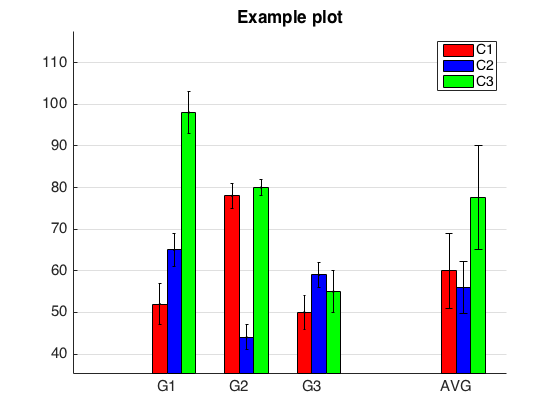
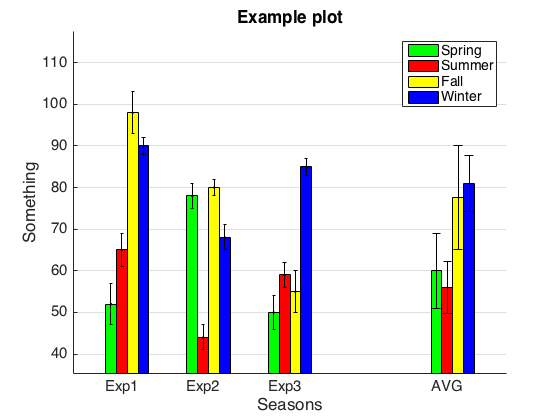
Add files via upload

diff --git a/plot_BwEB.m b/plot_BwEB.m
@@ -1,0 +1,146 @@
+%function plot_BwEB(data, err, colors,varargin)
+% 
+% This function plots a grouped bar chart together with error bars for a
+% given dataset. This function has the option to add an extra group to
+% represent the average of the categories across the given dataset. 
+% The error bars in the average grouped bars (with x-axis tick label as 
+% AVG') indicate the standard error of the mean. 
+% 
+% INPUT: 
+%    data       --> number of groups x number of categories 
+%    err        --> error for the given data (should be the same size as
+%                   data, i.e. number of groups x number of categories)
+%    colors     --> a cell list of colors, should have the same length as
+%                   the number of categories 
+%
+%
+% INPUT - optional:
+%    avg        --> 0/1 whether or not to plot the average (default: 0)
+%    legends    --> a cell array containing the legend for each category 
+%                   (default: Ci, i is in {1,..., number of categories}) 
+%    title      --> a sequence of characters indicating the title 
+%    xlabel     --> a sequence of characters indicating the label of the x-axis
+%    ylabel     --> a sequence of characters indicating the label of the y-axis
+%    XTickLabel --> a cell array containing the x-axis tick label for each 
+%                   group (default: Gi, i is in {1,..., number of groups})
+%    fontsize   --> font size (default: 10)
+%    ylim       --> limits of the y axis (default: [min(data(:))*0.8, 
+%                   max(data(:))*1.2] )
+%    GridOn     --> whether or not to plot the yaxis grid (on: 1 -- 
+%                   off: 0 -- default: 0)
+%
+%  ------------------------------------------------
+%  Example: 
+%  data = [52, 65, 98; 78, 44, 80; 50, 59,55];
+%  err = [5, 4, 5; 3, 3, 2; 4, 3, 5]; 
+%  colors = {'r','b','g'}; 
+%  plot_BwEB(data, err, colors, 'title','Example plot','avg',1,'fontsize',15,'GridOn',1)
+%
+%
+% MIT License
+% Copyright (c) 2020 Mahta Mousavi 
+%%%%%%%%%%%%%%%%%%%%%%%%%%%%%%%%%%%%%%%%%%%%%%%%%%%%%%%%%%%%%%%%%%%%%%%%%%
+function plot_BwEB(data, err, colors,varargin)
+
+p = inputParser; 
+
+addRequired(p,'data',@ismatrix);
+addRequired(p,'err',@ismatrix);
+addRequired(p,'colors',@(x)(iscell(x) && length(x)==size(data,2)));
+
+legends_temp = cell(1,size(data,2)); 
+for i = 1:length(legends_temp)
+    legends_temp{i} = ['C',num2str(i)];
+end
+addParameter(p, 'legends', legends_temp, @(x) (length(x) == size(data,2)));
+addParameter(p, 'title', [], @ischar);
+addParameter(p, 'xlabel', [], @ischar);
+addParameter(p, 'ylabel', [], @ischar);
+addParameter(p, 'fontsize', 10, @isnumeric);
+addParameter(p, 'avg', 0, @isnumeric);
+addParameter(p, 'ylim', [min(data(:))*0.8, max(data(:))*1.2], @ismatrix);
+addParameter(p, 'GridOn', 0, @isnumeric); 
+
+xlabel_temp = cell(1,size(data,1)); 
+for i = 1:length(xlabel_temp)
+    xlabel_temp{i} = ['G', num2str(i)];
+end
+addParameter(p, 'XTickLabel', xlabel_temp, @iscell)
+
+parse(p, data, err, colors, varargin{:})
+
+legends = p.Results.legends; 
+titles = p.Results.title;
+xlabels = p.Results.xlabel;
+ylabels = p.Results.ylabel;
+fontsize = p.Results.fontsize; 
+avg = p.Results.avg;
+Xticklabels = p.Results.XTickLabel;
+ylims = p.Results.ylim;
+GridOn = p.Results.GridOn;
+
+[numS,numC] = size(data); 
+
+% the width of every bar is set to 0.4; find the rest of the parameters
+% accordingly 
+% for each subject, a length of ceil(0.4*numC) is needed 
+x = ceil(0.4*(numC+1.1));
+c = x:x:x*numS;
+
+% create the figure and assign the x and y axes labels 
+figure;
+axes1 = axes; 
+ylabel(ylabels);
+xlabel(xlabels)
+hold on
+
+% plot the bars 
+for i = 1:numS
+    for j = 1:numC
+        bar(c(i)+j*0.4,data(i,j),0.4, 'FaceColor', colors{j}); 
+    end
+end
+
+% plot the error bars on the bars
+for j = 1:numC
+    errorbar(c+0.4*j,data(:,j),err(:,j),'.','Color','k');   
+end
+
+% plot the average if avg == 1
+if avg == 1
+    for j = 1:numC
+        bar(x*(numS+2)+j*0.4,mean(data(:,j)),0.4, 'FaceColor', colors{j}); 
+        errorbar(x*(numS+2)+0.4*j,mean(data(:,j)),std(data(:,j))/...
+            sqrt(numS),'Color','k')
+    end
+end
+    
+% properly adjust the x limits depending on if the grouped average is 
+% plotted or not  
+% add the XTickLabel for the groups
+if avg == 0
+    set(axes1,'Xlim',[x-1 x*(numS+2)]);
+    set(axes1,'XTick',[c+0.4*numC/2],'XTickLabel',Xticklabels);
+else
+    set(axes1, 'Xlim',[x-1 x*(numS+3)]);
+    temp = cell(1,length(Xticklabels)+1);
+    temp(1:length(Xticklabels))=Xticklabels;
+    temp(length(Xticklabels)+1)={'AVG'};
+    set(axes1,'XTick',[c+0.4*numC/2,x*(numS+2)+0.4*numC/2],'XTickLabel'...
+        ,temp);
+end
+
+% add the legends and title for the figure 
+legend(legends)
+title(titles)
+
+% set the y limits and adjust the font size 
+ylim(ylims)
+set(gca, 'FontSize',fontsize)
+
+% set the y axis grid on or not 
+if GridOn == 1
+    ax=gca;
+    ax.YGrid='on';
+end
+

diff --git a/example.m b/example.m
@@ -1,0 +1,12 @@
+% an example of using plot_BwEB.m 
+
+data = [52, 65, 98, 90; 78, 44, 80, 68; 50, 59, 55, 85];
+err = [5, 4, 5, 2; 3, 3, 2, 3; 4, 3, 5, 2]; 
+
+colors = {'g','r','y','b'}; 
+legend = {'Spring', 'Summer', 'Fall', 'Winter'};
+XTickLabel = {'Exp1', 'Exp2', 'Exp3'};
+
+plot_BwEB(data, err, colors, 'title','Example plot','avg',1,'fontsize',15,...
+        'GridOn',1, 'legends',legend, 'ylabel','Something',...
+        'xlabel','Seasons', 'XTickLabel', XTickLabel)
